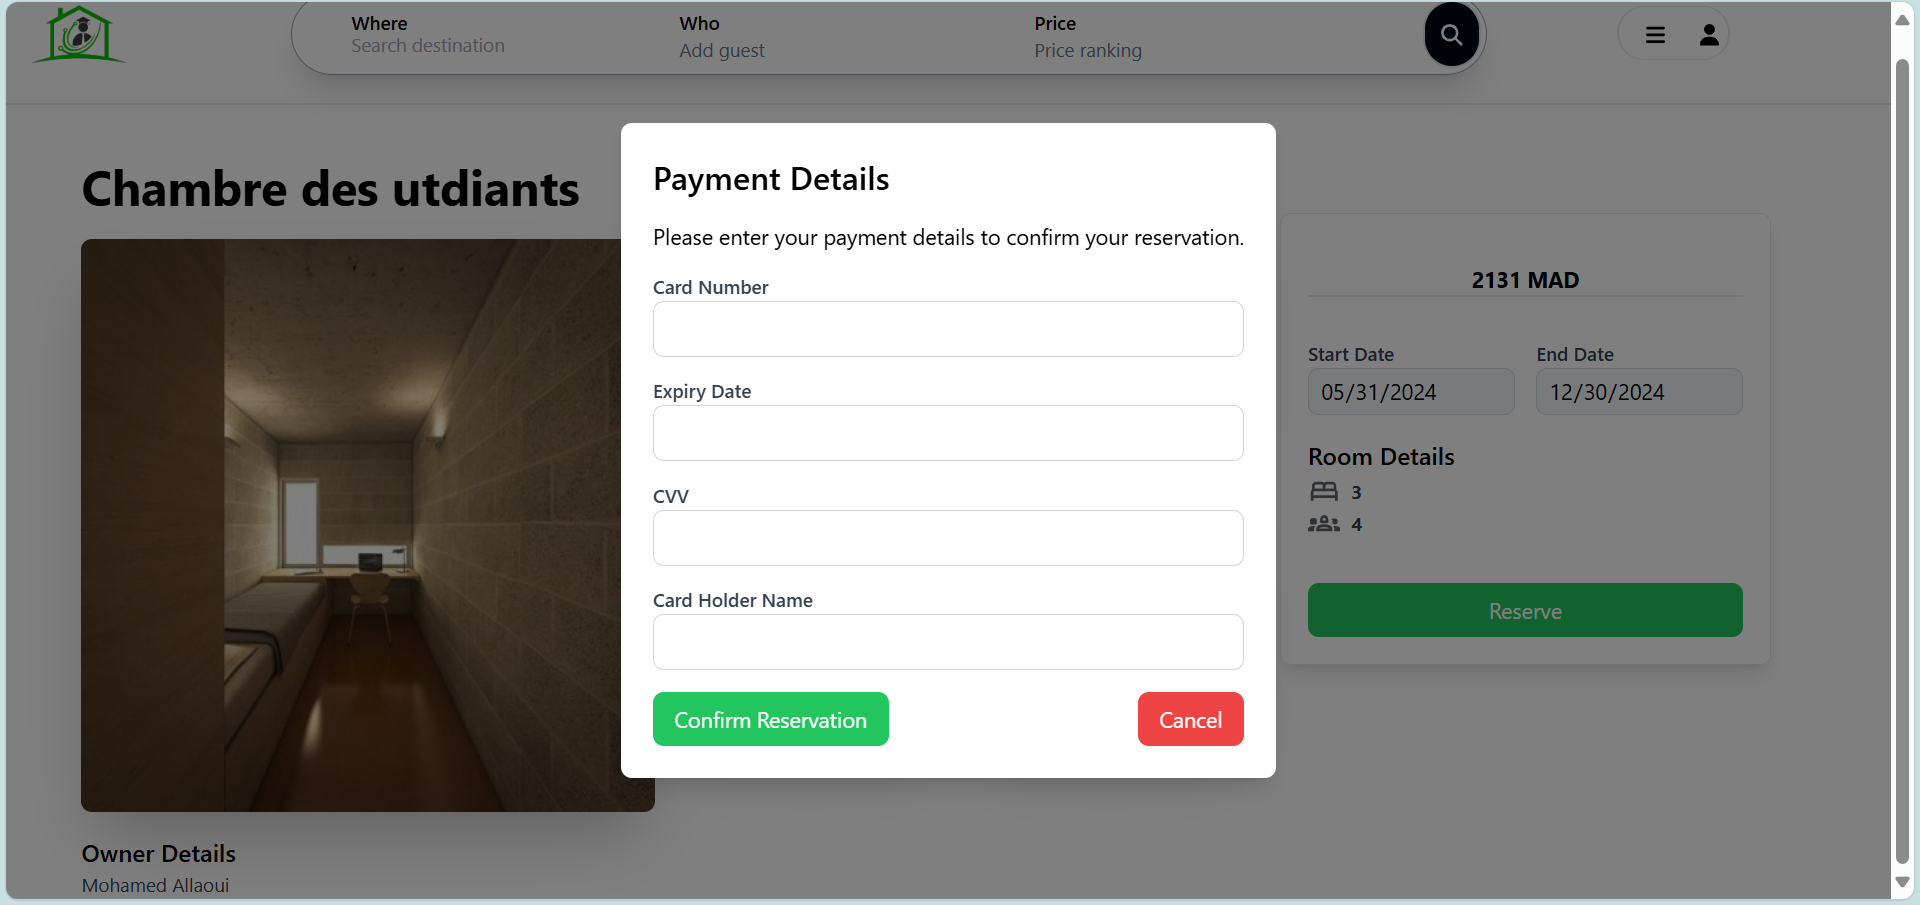
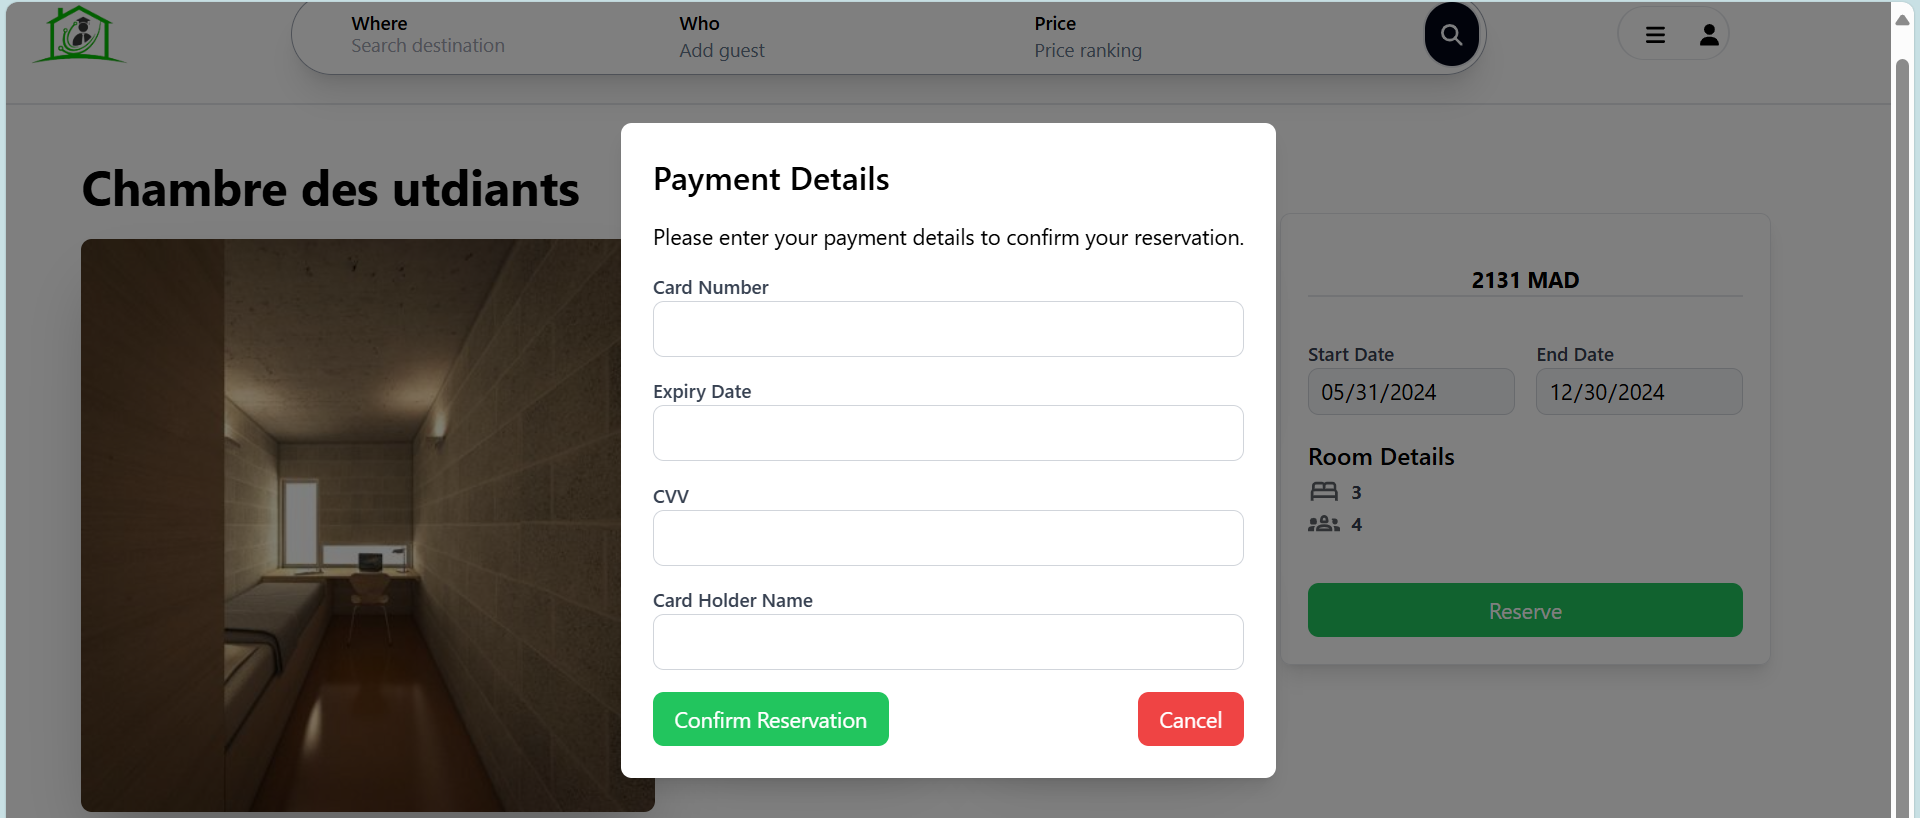
the update

diff --git a/src/app/components/ui/3d-card.tsx b/src/app/components/ui/3d-card.tsx
@@ -1,13 +1,13 @@
 "use client";
 
 import { cn } from "@/lib/utils";
-import Image from "next/image";
 import React, {
   createContext,
   useState,
   useContext,
   useRef,
   useEffect,
+  useCallback,
 } from "react";
 
 const MouseEnterContext = createContext<
@@ -35,23 +35,20 @@ export const CardContainer = ({
     containerRef.current.style.transform = `rotateY(${x}deg) rotateX(${y}deg)`;
   };
 
-  const handleMouseEnter = (e: React.MouseEvent<HTMLDivElement>) => {
+  const handleMouseEnter = () => {
     setIsMouseEntered(true);
-    if (!containerRef.current) return;
   };
 
-  const handleMouseLeave = (e: React.MouseEvent<HTMLDivElement>) => {
+  const handleMouseLeave = () => {
     if (!containerRef.current) return;
     setIsMouseEntered(false);
     containerRef.current.style.transform = `rotateY(0deg) rotateX(0deg)`;
   };
+
   return (
     <MouseEnterContext.Provider value={[isMouseEntered, setIsMouseEntered]}>
       <div
-        className={cn(
-          "py-20 flex  ",
-          containerClassName
-        )}
+        className={cn("py-20 flex", containerClassName)}
         style={{
           perspective: "1000px",
         }}
@@ -86,7 +83,7 @@ export const CardBody = ({
   return (
     <div
       className={cn(
-        "h-96 w-96 [transform-style:preserve-3d]  [&>*]:[transform-style:preserve-3d]",
+        "h-96 w-96 [transform-style:preserve-3d] [&>*]:[transform-style:preserve-3d]",
         className
       )}
     >
@@ -116,23 +113,23 @@ export const CardItem = ({
   rotateX?: number | string;
   rotateY?: number | string;
   rotateZ?: number | string;
-  [key: string]: any;
+  [key: string]: unknown; // Replaced `any` with `unknown`
 }) => {
   const ref = useRef<HTMLDivElement>(null);
   const [isMouseEntered] = useMouseEnter();
 
-  useEffect(() => {
-    handleAnimations();
-  }, [isMouseEntered]);
-
-  const handleAnimations = () => {
+  const handleAnimations = useCallback(() => {
     if (!ref.current) return;
     if (isMouseEntered) {
       ref.current.style.transform = `translateX(${translateX}px) translateY(${translateY}px) translateZ(${translateZ}px) rotateX(${rotateX}deg) rotateY(${rotateY}deg) rotateZ(${rotateZ}deg)`;
     } else {
       ref.current.style.transform = `translateX(0px) translateY(0px) translateZ(0px) rotateX(0deg) rotateY(0deg) rotateZ(0deg)`;
     }
-  };
+  }, [isMouseEntered, translateX, translateY, translateZ, rotateX, rotateY, rotateZ]);
+
+  useEffect(() => {
+    handleAnimations();
+  }, [handleAnimations]);
 
   return (
     <Tag

diff --git a/src/app/data/projects.ts b/src/app/data/projects.ts
@@ -1,10 +1,10 @@
 
-import img1 from "../../../public/pictursProject1-StudentNest/Screenshot 2024-05-28 015813.png";
+import img1 from "../../../public/pictursProject1-StudentNest/Screenshot 2024-06-05 112843.png";
 import img2 from "../../../public/pictursProject1-StudentNest/Screenshot 2024-05-28 015823.png";
 import img3 from "../../../public/pictursProject1-StudentNest/Screenshot 2024-06-05 112843.png";
 import img4 from "../../../public/pictursProject1-StudentNest/Screenshot 2024-06-05 112909.png";
-import img5 from "../../../public/pictursProject1-StudentNest/Screenshot 2024-06-06 215346.png";
-import img6 from "../../../public/pictursProject1-StudentNest/Screenshot 2024-06-07 204034.png";
+
+import img5 from "../../../public/pictursProject1-StudentNest/Screenshot 2024-06-07 202907.png";
 import img7 from "../../../public/pictursProject2-Maranime/Capture d'écran 2024-02-15 214457.png";
 import img8 from "../../../public/pictursProject2-Maranime/Capture d'écran 2024-02-05 023532.png";
 import img9 from "../../../public/pictursProject2-Maranime/Capture d'écran 2024-02-07 234413.png";
@@ -19,18 +19,21 @@ export const projects = [
     title: "Student Nest",
     description: "Developed a student housing rental website with various features including secure payment and user profiles.",
     github: "https://github.com/Muhamedall/Project-fin-etude",
-    images: [img1, img2, img3 , img4,img5,img6],
+    images: [img1, img2, img3 , img4,img5],
+    key: 1,
   },
   {
     title: "marAnime",
     description: "A platform for anime enthusiasts to browse, rate, and review anime series and movies.",
     github: "https://github.com/Muhamedall/Project-marAnimeM",
     images: [img7, img8, img9 , img10,img11],
+    key: 2,
   },
   {
     title: "BlogDiaa",
     description: "A blogging platform to share posts with features for image uploads and youtube videos.",
     website: "https://blogdiaa.free.nf/?i=1",
     images: [img12, img13, img14 , img15],
+    key: 3,
   },
 ];

diff --git a/src/app/components/ProjectCard.tsx b/src/app/components/ProjectCard.tsx
@@ -7,12 +7,15 @@ import { FaGithub } from "react-icons/fa";
 import { TbWorld } from "react-icons/tb"; // Import the website icon
 import Modal from "./Modal";
 
+import { StaticImageData } from "next/image";
+
 interface ProjectProps {
   title: string;
   description: string;
   github?: string; // Make this optional
   website?: string; // Add a new property for the website
-  images: string[];
+  images: StaticImageData[]; // Change type to StaticImageData[]
+  style?: React.CSSProperties; 
 }
 
 const ProjectCard: React.FC<ProjectProps> = ({ title, description, github, website, images }) => {
@@ -23,7 +26,8 @@ const ProjectCard: React.FC<ProjectProps> = ({ title, description, github, websi
   const handlePrev = () => setCurrentImage((prev) => (prev === 0 ? images.length - 1 : prev - 1));
 
   return (
-    <CardContainer style={{ perspective: "1000px" }}>
+    <CardContainer className="perspective-class">
+
       <CardBody className="bg-gray-50 dark:bg-black w-auto sm:w-[40rem] p-6 rounded-xl">
         <div className="flex justify-between">
           <div>
@@ -56,7 +60,7 @@ const ProjectCard: React.FC<ProjectProps> = ({ title, description, github, websi
         <Modal
           isOpen={isModalOpen}
           onClose={() => setIsModalOpen(false)}
-          images={images}
+          images={images.map((image) => image.src)} 
           currentImage={currentImage}
           onNext={handleNext}
           onPrev={handlePrev}

diff --git a/src/app/components/Modal.tsx b/src/app/components/Modal.tsx
@@ -17,10 +17,10 @@ const Modal: React.FC<ModalProps> = ({ isOpen, onClose, images, currentImage, on
   return (
     <div className="fixed inset-0 flex items-center justify-center bg-black bg-opacity-75 z-50">
       <div className="relative">
-        <Image src={images[currentImage]} alt="Full View" className="rounded-xl" />
-        <button onClick={onPrev} className="absolute left-4 top-1/2 -translate-y-1/2 text-white">◀</button>
-        <button onClick={onNext} className="absolute right-4 top-1/2 -translate-y-1/2 text-white">▶</button>
-        <button onClick={onClose} className="absolute top-4 right-4 text-white text-xl">✕</button>
+        <Image src={images[currentImage]} alt="Full View" className="rounded-xl " />
+        <button onClick={onPrev} className="absolute left-4 top-1/2 -translate-y-1/2 text-stone-400 text-xl md:text-2xl">◀</button>
+        <button onClick={onNext} className="absolute right-4 top-1/2 -translate-y-1/2 text-stone-400 text-xl md:text-2xl">▶</button>
+        <button onClick={onClose} className="absolute top-0 right-2 md:top-4 md:right-4 text-stone-600 text-xl md:text-3xl z-50">✕</button>
       </div>
     </div>
   );

diff --git a/src/app/page.tsx b/src/app/page.tsx
@@ -23,7 +23,7 @@ export default function Page() {
           animate={{ opacity: 1, x: 0 }}
           transition={{ delay: 0.3, duration: 1 }}
         >
-          Hi, I'm <span className="text-blue-500">Mohamed Allaoui</span>, a Full Stack Developer passionate about creating modern, responsive, and user-friendly web applications. I enjoy turning ideas into innovative solutions and delivering impactful digital experiences. Always eager to learn and grow, I strive to make a difference through technology.
+          Hi, I&apos;m <span className="text-blue-500">Mohamed Allaoui</span>, a Full Stack Developer passionate about creating modern, responsive, and user-friendly web applications. I enjoy turning ideas into innovative solutions and delivering impactful digital experiences. Always eager to learn and grow, I strive to make a difference through technology.
           <div className="mt-4 hidden sm:block">
             <a
               href="/assets/Cv-Allaoui-developpeur.pdf"

diff --git a/src/app/projects/page.tsx b/src/app/projects/page.tsx
@@ -7,11 +7,12 @@ export default function Page() {
   return (
     <section className="px-6 py-12">
       <h1 className="text-5xl font-extrabold text-center mb-8">Projects</h1>
-      <div className="flex flex-wrap gap-6 justify-center">
-        {projects.map((project, index) => (
-          <ProjectCard key={index} {...project} />
-        ))}
-      </div>
+      <div className="flex flex-wrap gap-6 ">
+  {projects.map(({ key, ...project }) => (
+    <ProjectCard key={key} {...project} />
+  ))}
+</div>
+
     </section>
   );
 }

diff --git a/src/app/globals.css b/src/app/globals.css
@@ -157,3 +157,6 @@ body {
   }
 }
 
+.perspective-class {
+  perspective: 1000px;
+}
